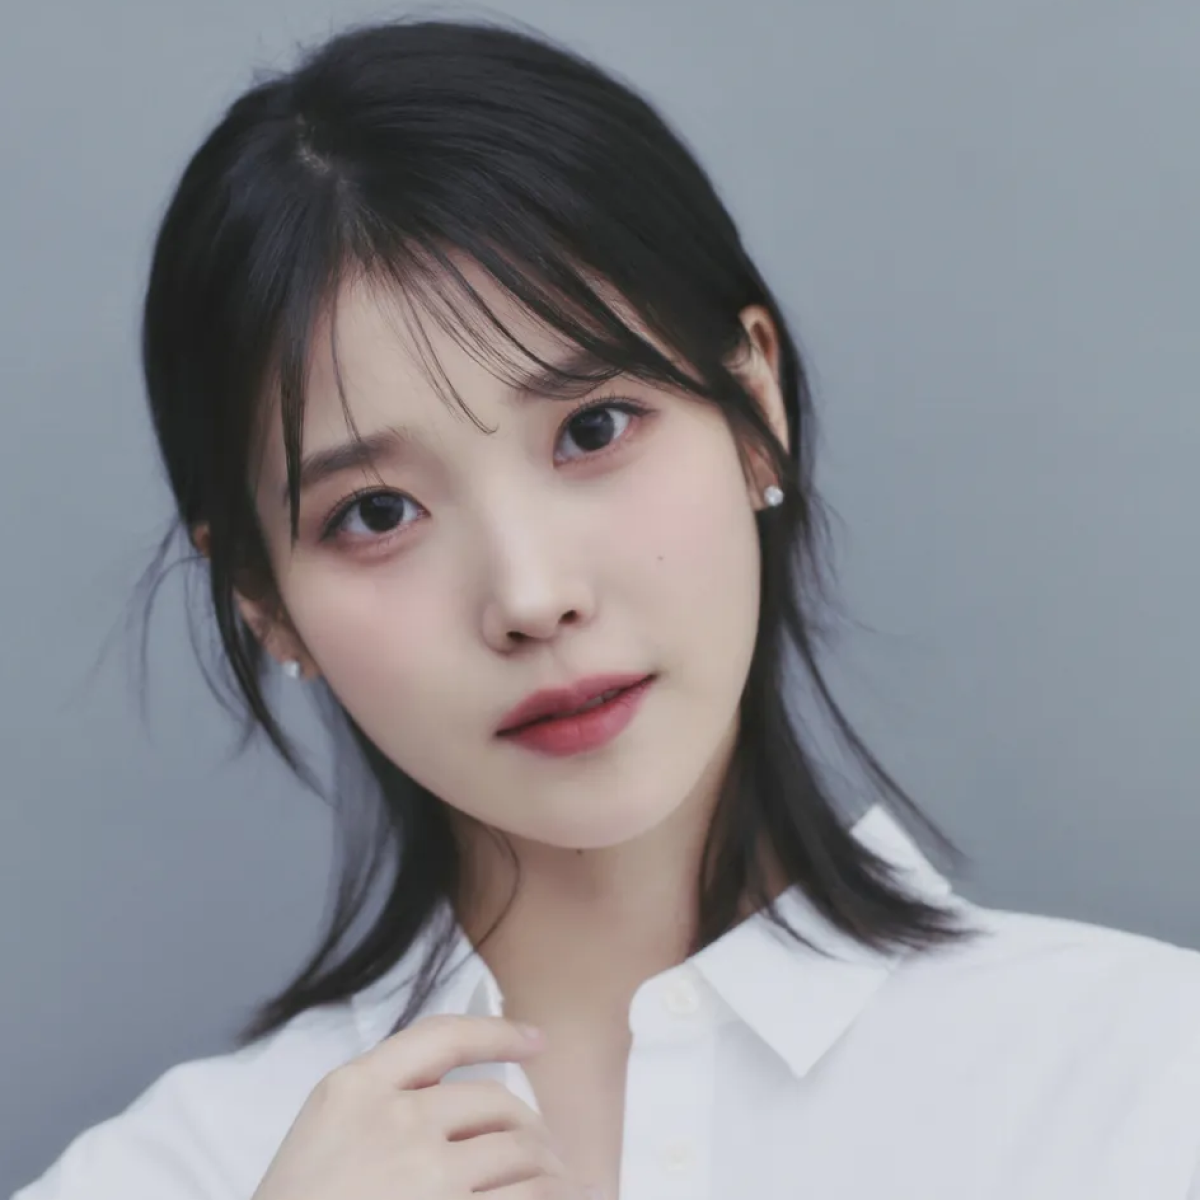
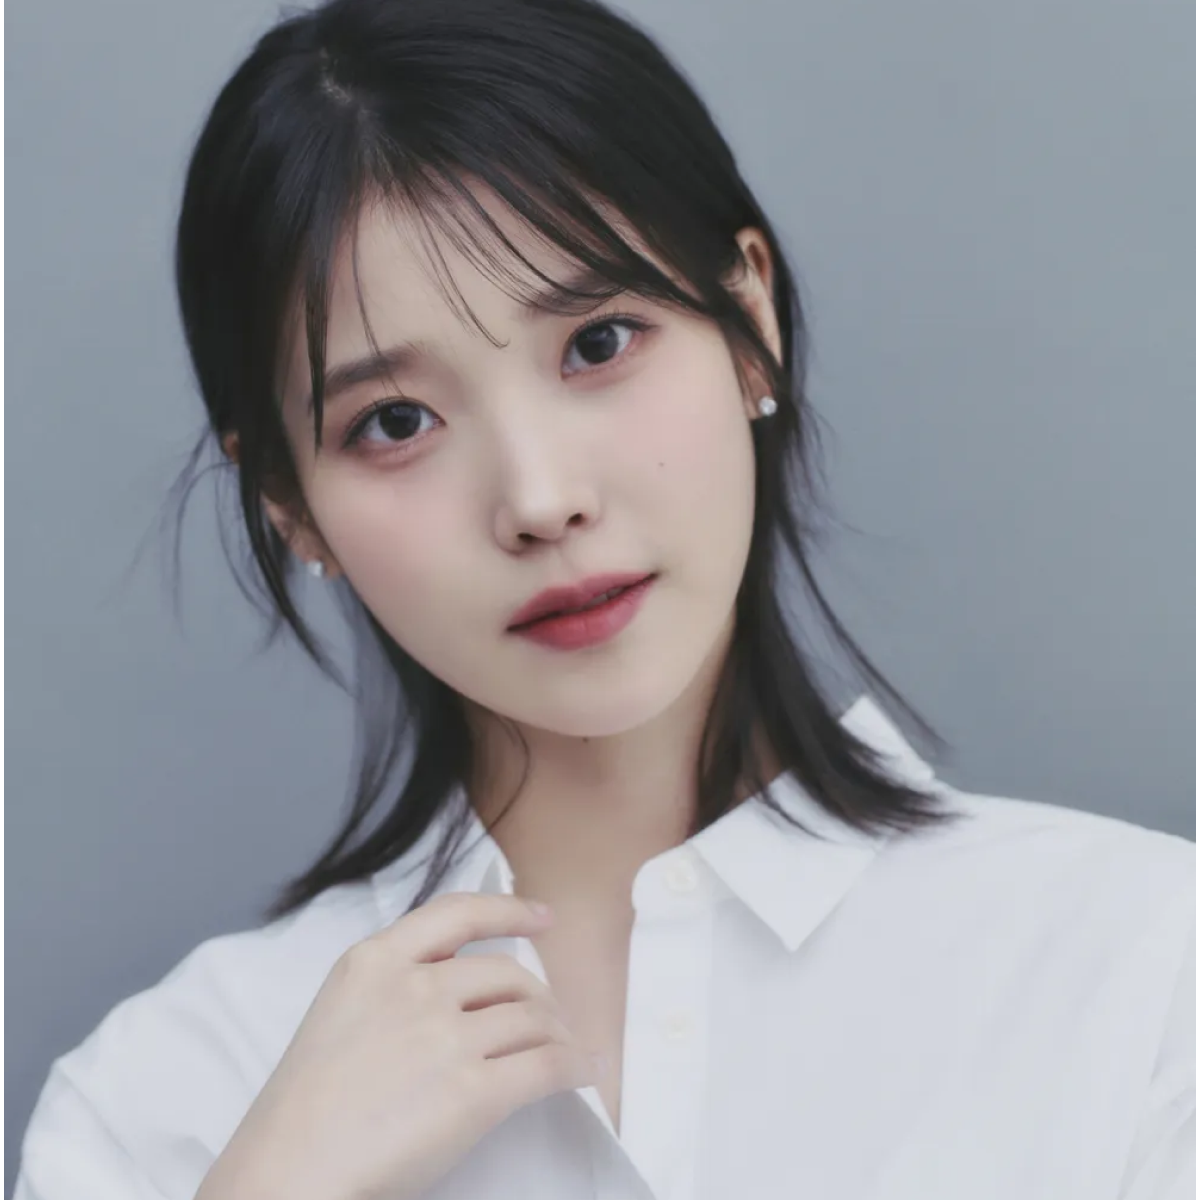
save

diff --git a/src/components/layout/MainListItem.vue b/src/components/layout/MainListItem.vue
@@ -6,7 +6,7 @@
                 <p>{{ title }}</p>
                 <p>{{ singer }}</p>
             </div>
-            <p class="more-btn">...</p>
+            <p class="more-btn color-black">...</p>
         </div>
     </a>
 </template>
@@ -33,6 +33,7 @@ export default {
 a > img {
     border-radius: 5px;
     width: 80px;
+    box-shadow: 0px 2px 4px var(--color-shadow);
 }
 
 .col-2 {
@@ -44,10 +45,11 @@ a > img {
 .box {
     display: flex;
     align-items: center;
-    margin-left: 20px;
+    margin-left: 15px;
     padding: 15px 20px;
     border-radius: 5px;
-    border: 1px solid #bbd1ff;
+    box-shadow: 0px 2px 4px var(--color-shadow);
+    border: 1px solid var(--color-accent-blue);
     background: #ffffff;
 }
 .box .artist-name-box p:first-child {
@@ -58,16 +60,16 @@ a > img {
 
 .box .artist-name-box p:last-child {
     font-size: var(--font-14);
-    color: #737886;
+    color: var(--color-gray);
 }
 .box .more-btn {
     font-size: var(--font-24);
     cursor: pointer;
-    transform: rotate(90deg);
+    transform: rotate(90deg) translateY(-8px);
 }
 
 img {
-    border: 1px solid #bbd1ff;
+    border: 1px solid var(--color-accent-blue);
 }
 .artist-name-box p {
     min-width: 160px;
@@ -75,5 +77,37 @@ img {
     white-space: nowrap;
     overflow: hidden;
     text-overflow: ellipsis;
+}
+
+@media (max-width: 500px) {
+    a > img {
+        width: clamp(56px, 18vw, 80px);
+        border-radius: clamp(4px, 1.5vw, 5px);
+    }
+
+    .box {
+        margin-left: clamp(8px, 3vw, 15px);
+        padding: clamp(10px, 3vw, 15px) clamp(12px, 4vw, 20px);
+        border-radius: clamp(4px, 1.5vw, 5px);
+    }
+
+    .box .artist-name-box p:first-child {
+        font-size: clamp(13px, 3.6vw, var(--font-16));
+        margin-bottom: clamp(3px, 1vw, 5px);
+    }
+
+    .box .artist-name-box p:last-child {
+        font-size: clamp(11px, 3.2vw, var(--font-14));
+    }
+
+    .box .more-btn {
+        font-size: clamp(18px, 5vw, var(--font-24));
+        transform: rotate(90deg) translateY(clamp(-5px, -1.6vw, -8px));
+    }
+
+    .artist-name-box p {
+        min-width: clamp(90px, 28vw, 160px);
+        max-width: clamp(90px, 28vw, 150px);
+    }
 }
 </style>

diff --git a/src/views/main/MainSec06.vue b/src/views/main/MainSec06.vue
@@ -42,30 +42,30 @@ export default {
             cards: [
                 {
                     id: 1,
-                    name: 'Sabrina Carpenter',
-                    meta: '26 | 여성 | 미국',
-                    feature: '밝고 경쾌한 팝 사운드와 위트 있는 가사가 특징인 트렌디한 아티스트.',
+                    name: 'Rosé',
+                    meta: '29 | 여성 | 한국인',
+                    feature: '독특한 음색과 감성적인 보컬이 특징이며 팝·록 기반의 서정적인 음악 스타일을 가진 아티스트',
                     mainImage: img01
                 },
                 {
                     id: 2,
                     name: 'Olivia Rodrigo',
                     meta: '23 | 여성 | 미국',
-                    feature: '감정선을 강하게 살린 팝·팝록 스타일로 공감을 얻는 싱어송라이터.',
+                    feature: '감정선을 강하게 살린 팝·팝록 스타일로 공감을 얻는 아티스트',
                     mainImage: img03
                 },
                 {
                     id: 3,
                     name: '아이유',
                     meta: '34 | 여성 | 대한민국',
-                    feature: '서정적인 멜로디와 감성적인 보컬이 강점인 대표적인 아티스트.',
+                    feature: '서정적인 멜로디와 감성적인 보컬이 강점인 대표적인 아티스트',
                     mainImage: img05
                 },
                 {
                     id: 4,
                     name: '윤하',
                     meta: '36 | 여성 | 대한민국',
-                    feature: '록 기반 사운드와 시원한 고음이 인상적인 여성 보컬 아티스트.',
+                    feature: '록 기반 사운드와 시원한 고음이 인상적인 여성 보컬 아티스트',
                     mainImage: img07
                 }
             ]
@@ -106,6 +106,7 @@ export default {
     width: 100%;
     height: 100%;
     object-fit: cover;
+    object-position: top; /* 위쪽 기준 */
     display: block;
 }
 

diff --git a/src/assets/styles/pages/search-css/search-result.css b/src/assets/styles/pages/search-css/search-result.css
@@ -1,16 +1,16 @@
 #section1 {
     display: flex;
     flex-direction: column;
-    padding: 16px 0;
+    padding: 35px 0;
     gap: 30px;
 }
 
 #section1 .row:nth-child(1) {
-    border: 1px solid var(--color-key);
+    border: 1px solid var(--color-accent-blue);
+    box-shadow: 0px 2px 4px 0px var(--color-shadow);
     border-radius: 50px;
-    background-color: #ffffff;
-    padding: 18px 16px;
-    margin: 0 20px; /* ✅ padding 대신 margin으로 검색창만 들여쓰기 */
+    height: 56px;
+    padding: 0 19px;
 }
 
 #section1 .row:nth-child(1) .col-1 {
@@ -18,14 +18,22 @@
 }
 
 #section1 .row:nth-child(1) .col-1 input {
-    font-size: var(--font-14);
+    font-size: var(--font-16);
     font-weight: var(--fw-medium);
     width: 100%;
 }
 
+#section1 input::placeholder {
+    color: var(--color-gray);
+}
+
+#section1 input:focus::placeholder {
+    color: transparent;
+}
+
 #section1 .row:nth-child(1) .col-1 span {
     font-size: var(--font-22);
-    color: var(--color-primary-4);
+    color: var(--color-key);
     margin-left: auto;
     cursor: pointer;
 }
@@ -34,5 +42,6 @@
     display: flex;
     flex-direction: column;
     gap: 11px;
-    padding: 0 20px; /* ✅ 리스트 좌우 여백 */
+    padding: 0 20px;
+    /* ✅ 리스트 좌우 여백 */
 }

diff --git a/src/router/index.js b/src/router/index.js
@@ -42,14 +42,12 @@ const routes = [
             { path: 'search', component: Search, meta: { isProfile: true } },
             { path: 'chart', component: ChartView, meta: { isProfile: true } },
             { path: 'mypage', component: MyPageView, meta: { isProfile: false } },
-            { path: 'chart', component: ChartView, meta: { isProfile: false } },
             { path: 'ticket-select', component: TicketSelect, meta: { isProfile: false } },
-            { path: 'library', component: Library, meta: { isProfile: false } },
+            { path: 'library', component: Library, meta: { isProfile: true } },
             { path: 'playlist', component: Playlist, meta: { isProfile: false } },
             { path: 'player/:id', component: Player, meta: { isProfile: false } },
             { path: 'artist-info', component: ArtistInfo, meta: { isProfile: false } },
-            { path: 'search-result', component: SearchResult, meta: { isProfile: true } },
-            { path: 'chart', component: ChartView, meta: { isProfile: false } }
+            { path: 'search-result', component: SearchResult, meta: { isProfile: true } }
         ]
     },
     // {

diff --git a/src/assets/styles/pages/main-css/sec-07.css b/src/assets/styles/pages/main-css/sec-07.css
@@ -7,6 +7,7 @@
     margin-top: 14px;
     background: linear-gradient(180deg, rgba(0, 0, 0, 1) 0%, rgba(102, 102, 102, 1) 100%);
     border-radius: 10px;
+
 }
 
 .information {
@@ -15,10 +16,11 @@
     display: flex;
     align-items: center;
     justify-content: space-between;
-    padding: 7px;
+    padding: 10px;
+
 }
 
-.information > img {
+.information>img {
     width: 30px;
     height: 30px;
     margin-right: 5px;
@@ -36,7 +38,7 @@
 .artist p {
     margin: 0;
     line-height: 1.1;
-    color: #fff;
+    color: #ffffff;
     font-weight: var(--fw-semibold);
 }
 
@@ -64,6 +66,7 @@
 .buttons img:first-child {
     display: none;
 }
+
 .video {
     width: 100%;
     height: 100%;

diff --git a/src/assets/styles/pages/OnboardingFlow/splash-view.css b/src/assets/styles/pages/OnboardingFlow/splash-view.css
@@ -105,6 +105,7 @@
    - opacity는 3초부터 페이드 인 (3~4s)
 ========================================================= */
 #splash>.container>.logo-2>.row>img.logo-mute-img {
+
     opacity: 0;
     margin-bottom: 0;
     max-height: 0;
@@ -141,7 +142,7 @@
 
 #splash>.container>.logo-2>.row>.tagline.is-load {
     opacity: 1;
-    margin-bottom: 100px;
+    margin-bottom: 30px;
     /* 필요하면 여기서 조절 */
     max-height: 500px;
 }
@@ -184,7 +185,6 @@
     padding: 21px 24px;
     box-shadow: 0px 2px 4px 0px var(--color-shadow);
     margin-bottom: 15px;
-    color: var(--color-key);
 }
 
 #splash>.container>.logo-2>.row>.login-form>.login-form-field .login-form-label {

diff --git a/src/views/OnboardingFlow/SplashView.vue b/src/views/OnboardingFlow/SplashView.vue
@@ -7,7 +7,7 @@
             <div class="logo-2" :class="{ 'is-load': isLoad }">
                 <div class="row">
                     <Logo :class="{ 'is-load': isLoad }" />
-                    <img class="logo-mute-img" :class="{ 'is-load': isLoad }" :src="logo_1" alt="Logo_1" />
+                    <img class="logo-mute-img" :class="{ 'is-load': isLoad }" :src="logo_1" alt="Logo_1" width="80" />
                     <p class="tagline color-black" :class="{ 'is-load': isLoad }">나만의 고요한 가상의 공간</p>
                     <form
                         action="#"

diff --git a/src/assets/styles/pages/search-css/search.css b/src/assets/styles/pages/search-css/search.css
@@ -2,7 +2,7 @@
     display: flex;
     flex-direction: column;
     gap: 40px;
-    padding-top: 50px;
+    padding-top: 30px;
     color: var(--color-black);
 }
 
@@ -36,8 +36,8 @@
     color: var(--color-gray);
 }
 
-#section1 input::placeholder :active {
-    color: var(--color-key);
+#section1 input:focus::placeholder {
+    color: transparent;
 }
 
 #section1 .row:nth-child(2) .col-1 span {

diff --git a/src/assets/styles/pages/main-css/sec-01.css b/src/assets/styles/pages/main-css/sec-01.css
@@ -15,7 +15,7 @@ main {
             rgb(232, 244, 255) 62.01%,
             rgb(220, 235, 255) 85.57%),
         linear-gradient(to left, #ffffff, #ffffff);
-    padding: 60px 40px 0px 40px;
+    padding: 30px 40px 0px 40px;
 }
 
 #lsc.container {

diff --git a/src/assets/styles/pages/chart.css b/src/assets/styles/pages/chart.css
@@ -1,5 +1,5 @@
 .boundery-select .col-3 {
-    padding-top: 55px;
+    padding-top: 30px;
     display: flex;
     width: 100%;
     justify-content: space-between;
